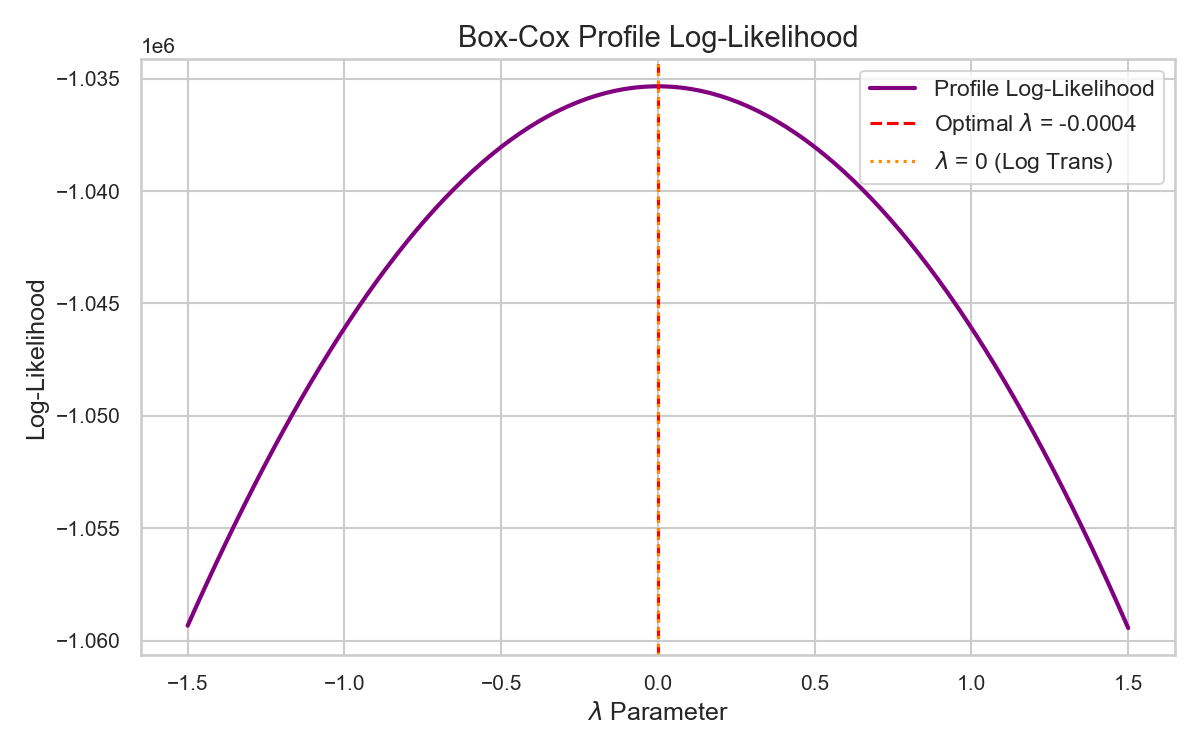
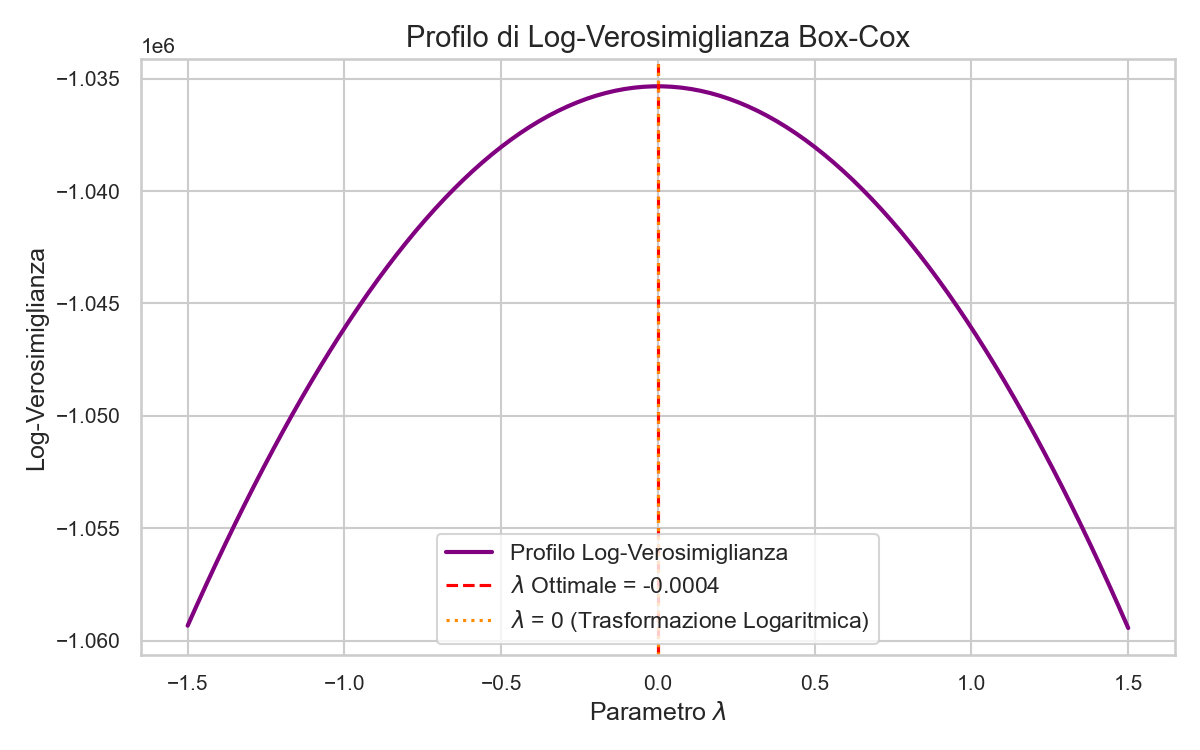
Translate Box-Cox plot text to Italian

diff --git a/gender_analysis.py b/gender_analysis.py
@@ -524,12 +524,12 @@ def main():
         log_likelihoods.append(ll)
         
     plt.figure(figsize=(8, 5))
-    plt.plot(lambdas, log_likelihoods, color='purple', linewidth=2, label='Profile Log-Likelihood')
-    plt.axvline(opt_lambda, color='red', linestyle='--', label=f'Optimal $\lambda$ = {opt_lambda:.4f}')
-    plt.axvline(0, color='darkorange', linestyle=':', label='$\lambda$ = 0 (Log Trans)')
-    plt.title('Box-Cox Profile Log-Likelihood')
-    plt.xlabel('$\lambda$ Parameter')
-    plt.ylabel('Log-Likelihood')
+    plt.plot(lambdas, log_likelihoods, color='purple', linewidth=2, label='Profilo Log-Verosimiglianza')
+    plt.axvline(opt_lambda, color='red', linestyle='--', label=f'$\lambda$ Ottimale = {opt_lambda:.4f}')
+    plt.axvline(0, color='darkorange', linestyle=':', label='$\lambda$ = 0 (Trasformazione Logaritmica)')
+    plt.title('Profilo di Log-Verosimiglianza Box-Cox')
+    plt.xlabel('Parametro $\lambda$')
+    plt.ylabel('Log-Verosimiglianza')
     plt.legend()
     plt.tight_layout()
     plt.savefig('plots/boxcox_likelihood.png', dpi=150)